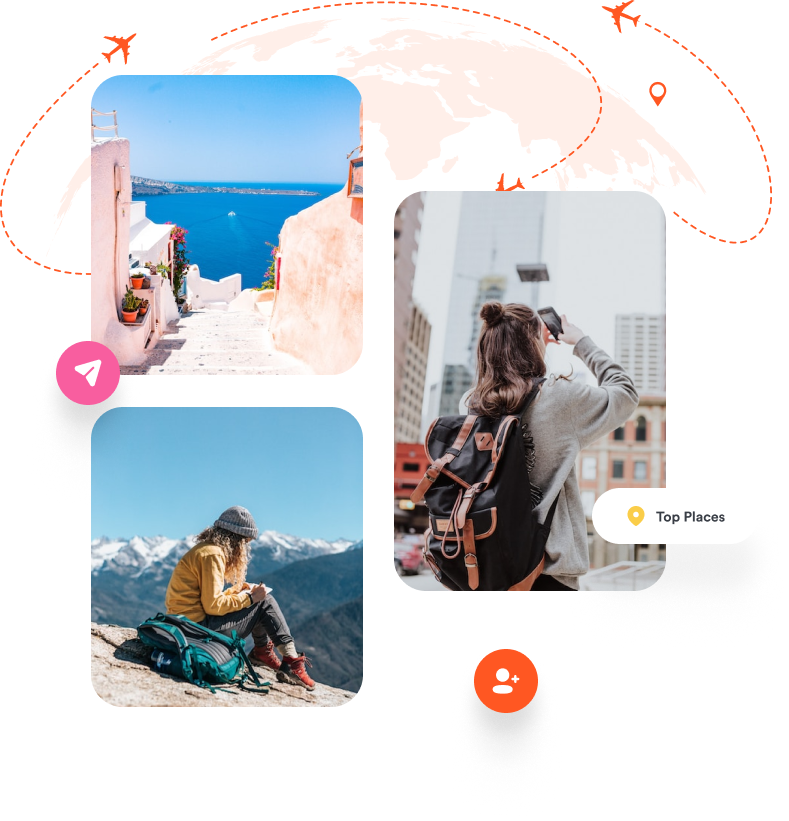
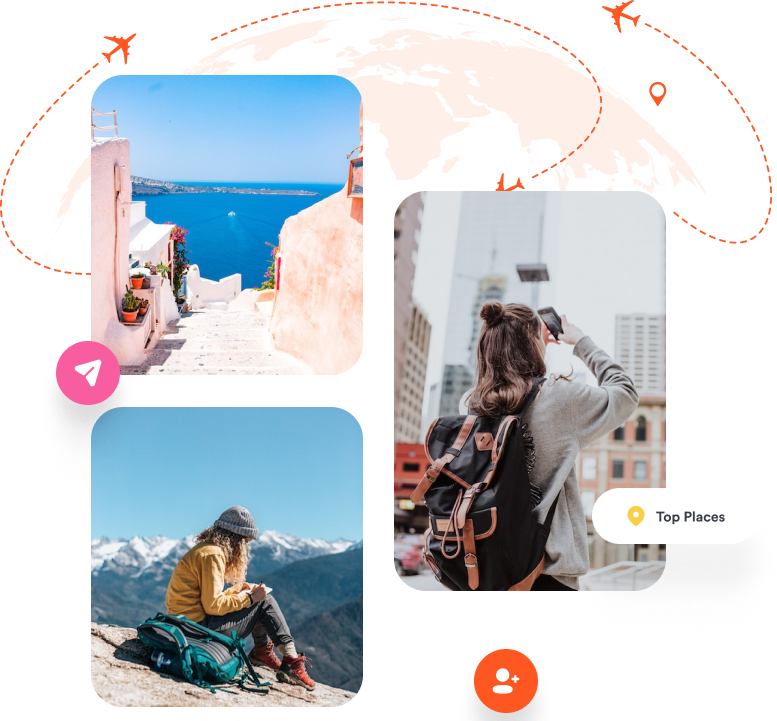
Added hero bg image

diff --git a/src/components/Hero.js b/src/components/Hero.js
@@ -5,10 +5,10 @@ const Hero = () => {
     return(
         <div className="container pt-64">
             <div className="row">
-                <div className="col-12 col-lg-4 bg-primary">text</div>
-                <div className="col-12 col-lg-8 bg-primary">
-                    <div className='bg-danger text-end'>
-                        <img src={HeroBg} alt="" className='w-100' />
+                <div className="col-12 col-lg-4 bg-primary order-2 order-lg-1">text</div>
+                <div className="col-12 col-lg-8 order-1 order-lg-2">
+                    <div className='text-lg-end text-center'>
+                        <img src={HeroBg} alt="" className='img-fluid' />
                     </div>
                 </div>
             </div>

diff --git a/src/styles/css/main.css b/src/styles/css/main.css
@@ -124,9 +124,14 @@
 }
 
 .pt-64 {
-  padding-top: 64px;
+  padding-top: 32px;
 }
 
+@media screen and (min-width: 992px) {
+  .pt-64 {
+    padding-top: 64px;
+  }
+}
 .w-40 {
   width: 40px;
 }
@@ -137,6 +142,10 @@
 
 .h-49 {
   height: 49px;
+}
+
+.h-713 {
+  height: 713px;
 }
 
 * {

diff --git a/src/styles/scss/partials/utilities/_spacing.scss b/src/styles/scss/partials/utilities/_spacing.scss
@@ -3,5 +3,11 @@
     padding-bottom: 2rem;
 }
 .pt-64 {
-    padding-top: 64px;
+    padding-top: 32px;
+}
+
+@media screen and (min-width: 992px){
+    .pt-64 {
+        padding-top: 64px;
+    }
 }

diff --git a/src/styles/scss/partials/utilities/_sizing.scss b/src/styles/scss/partials/utilities/_sizing.scss
@@ -10,3 +10,6 @@
 .h-49 {
     height: 49px;
 }
+.h-713 {
+    height: 713px;
+}
